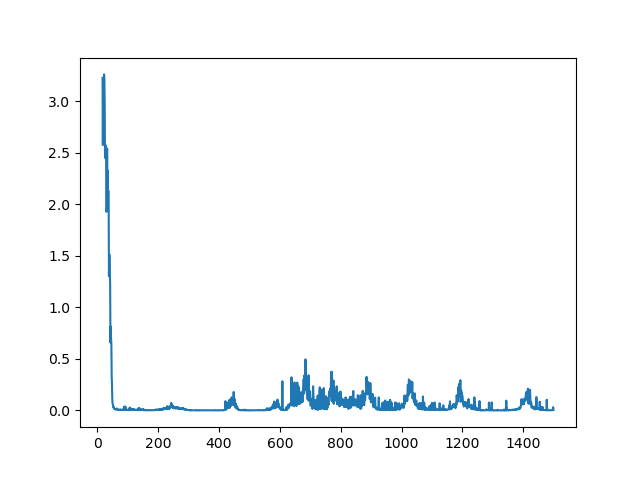
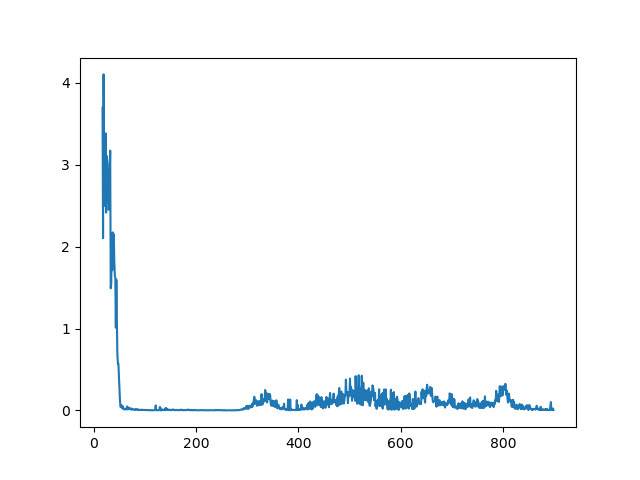
faster implementaation

diff --git a/dqn_utils.py b/dqn_utils.py
@@ -80,8 +80,11 @@ class FastReplayMemory:
     def sample(self, batch_size):
         assert batch_size <= self.num_filled
         # NOTE: with replacement (check impact!)
-        #indices=torch.randint(self.num_filled,(batch_size,))
-        indices=torch.multinomial(torch.ones(self.num_filled),batch_size,replacement=False)
+        indices=torch.randint(self.num_filled,(batch_size,))
+        ## Without replacement (two options):
+        #indices=torch.multinomial(torch.ones(self.num_filled),batch_size,replacement=False)
+        #indices = torch.from_numpy(np.random.choice(self.num_filled,batch_size,replace=False))#.unsqueeze(dim=1)
+
         return  self.state[indices], \
                 self.actions[indices][:,None],\
                 self.rewards[indices][:,None],\

diff --git a/main_dqn.py b/main_dqn.py
@@ -57,7 +57,7 @@ learn_rate = 1e-3#1e-3
 eps_0       = 1.#.5
 eps_min     = 0.05
 cutoff      = 3500
-num_episodes = 1500
+num_episodes = 900
 
 # We will seed the algorithm (before initializing QNetwork!) for reproducibility
 #random.seed(seed)
@@ -98,5 +98,3 @@ while True:
     action_idx, action = policy.sample_action(s,env._availableActionsInCurrentState())
     s_next, r, done, info = env.step(action_idx)
     s=s_next
-
-k=0
